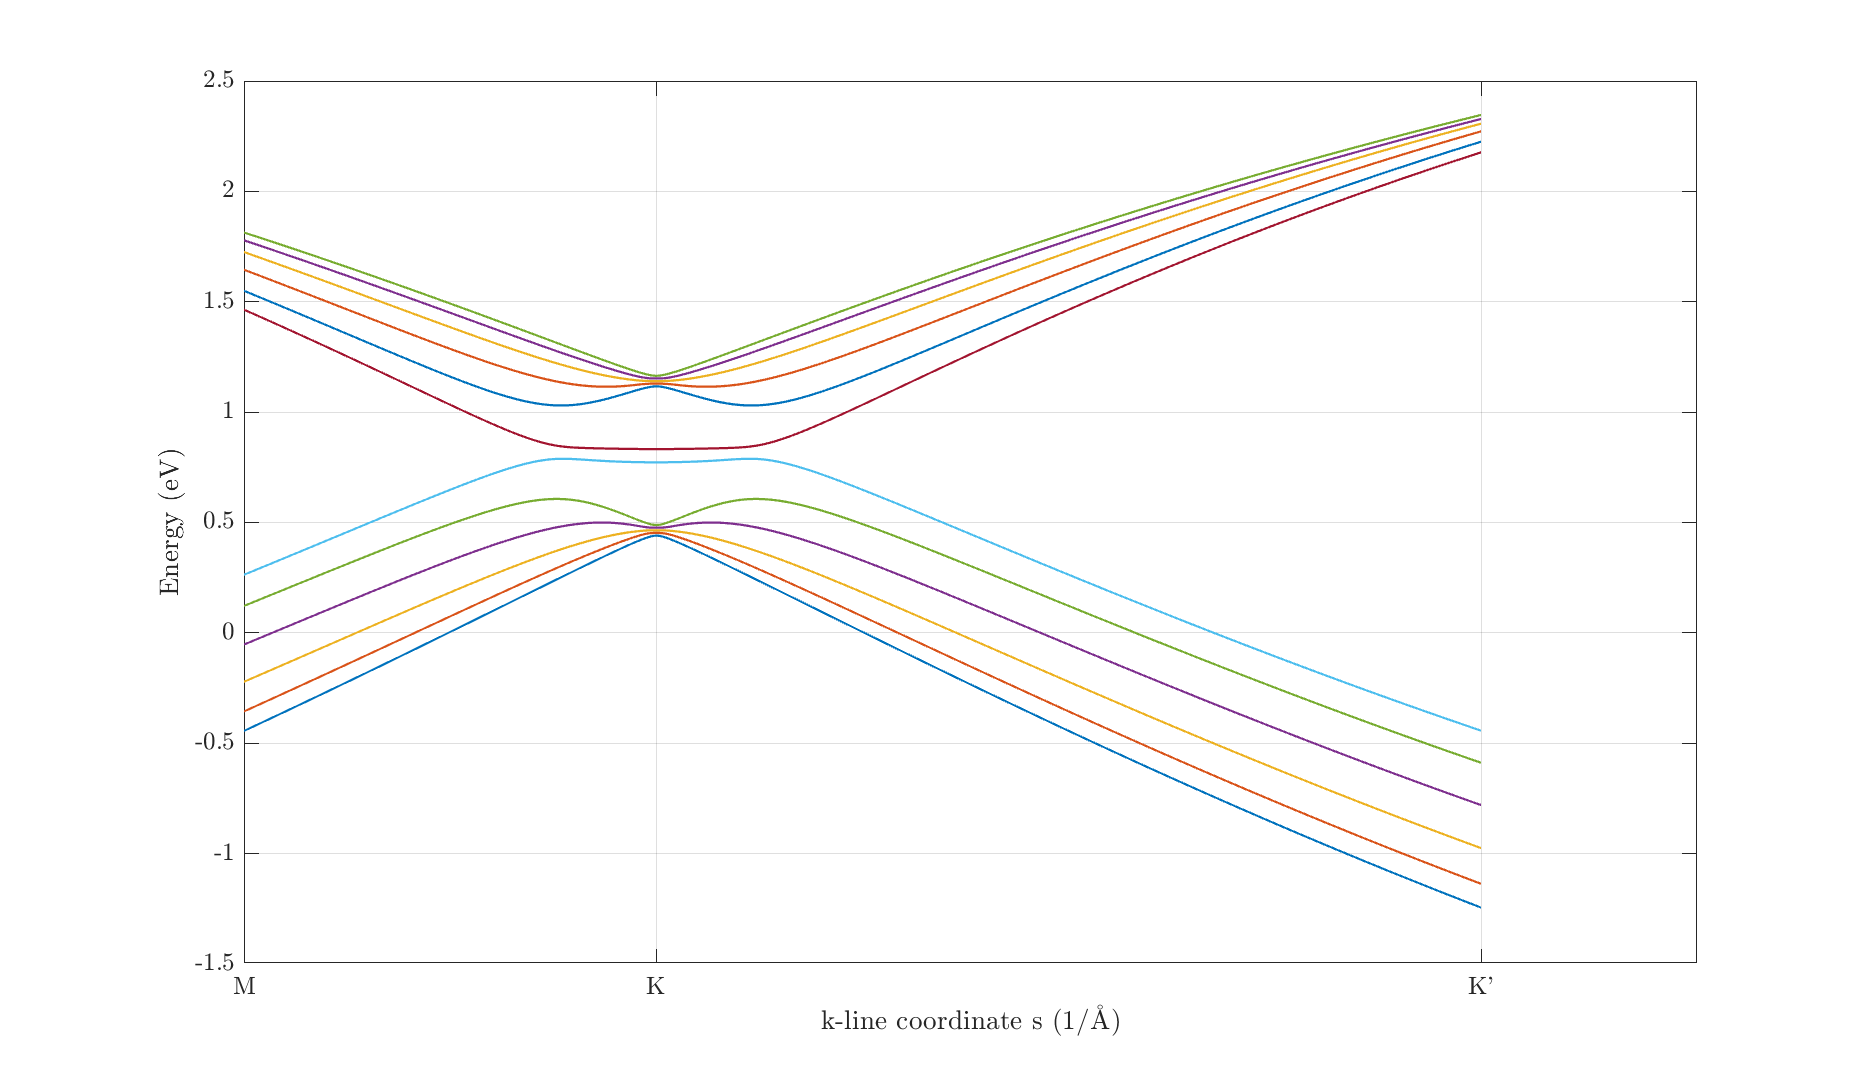
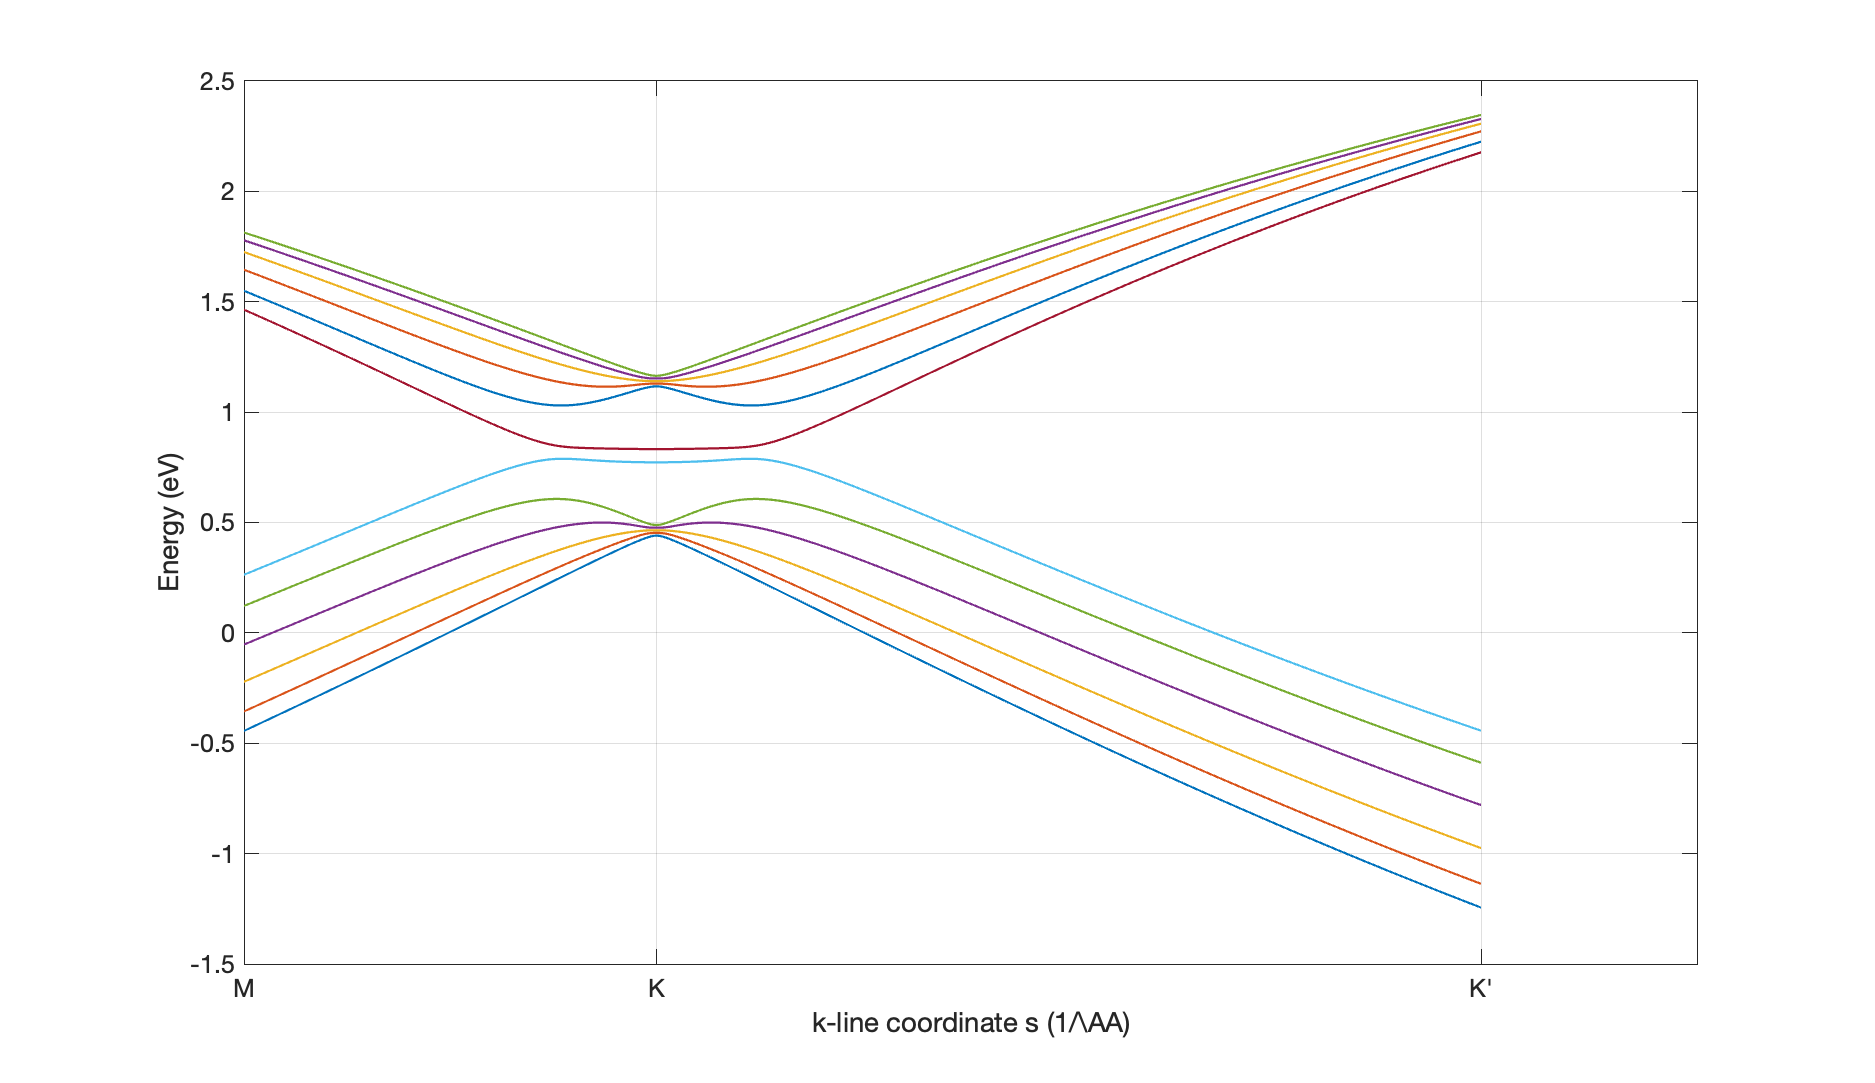
matlab figure coding updated

diff --git a/Matlab/plot_chi_dos/plot_dos_and_chi.m b/Matlab/plot_chi_dos/plot_dos_and_chi.m
@@ -3,13 +3,26 @@ function plot_dos_and_chi()
 % Key rule: x for chi MUST come from each file HEADER (not folder name).
 % DOS: prefers x from DOS numeric columns; if missing, tries header scalar.
 
+default_root = "/Users/haoranyan/rg_master/data/";
+
 x_mode = pick_xmode_();  % "doping" or "mu"
 fprintf("[x_mode] %s\n", x_mode);
+
+% -----------------------------
+% default iq/jq
+% -----------------------------
+iq0 = -267;
+jq0 = -267;
 
 % =========================
 % 1) DOS file (single)
 % =========================
-[fname, fpath] = uigetfile({'*.txt','DOS data (*.txt)'}, 'Select DOS file');
+start_dos = default_root;
+if ~isfolder(start_dos)
+    start_dos = string(pwd);
+end
+
+[fname, fpath] = uigetfile({'*.txt','DOS data (*.txt)'}, 'Select DOS file', start_dos);
 if isequal(fname,0), return; end
 dos_path = fullfile(fpath, fname);
 [~, dos_base, ~] = fileparts(dos_path);
@@ -33,14 +46,19 @@ DOS   = DOS(m);
 % =========================
 % 2) chi folder (many files)
 % =========================
-chi_root = uigetdir(string(fpath), "Select chi root folder containing chi*.txt (recursive)");
+start_chi = default_root;
+if ~isfolder(start_chi)
+    start_chi = string(fpath);
+end
+
+chi_root = uigetdir(start_chi, "Select chi root folder containing chi*.txt (recursive)");
 if isequal(chi_root,0), return; end
 chi_root = string(chi_root);
 
-answ = inputdlg({'iq','jq'}, 'Pick (iq,jq)', [1 40], {'0','0'});
-if isempty(answ), return; end
-iq_pick = round(str2double(answ{1}));
-jq_pick = round(str2double(answ{2}));
+iq_pick = iq0;
+jq_pick = jq0;
+
+fprintf("[iq,jq] = (%d, %d)\n", iq_pick, jq_pick);
 
 [x_chi, chi_re] = load_chi_vs_headerx_(chi_root, iq_pick, jq_pick, x_mode);
 if isempty(x_chi)

diff --git a/Matlab/plot_hyst_energyscape/make_realchi_coeff.m b/Matlab/plot_hyst_energyscape/make_realchi_coeff.m
@@ -14,6 +14,7 @@ function coef = make_realchi_coeff(par)
     coef.b2 = @(T) coef.beta(T);
     coef.a2 = @(T,dop) 5.0 / 6.0 * (coef.beta(T).^2) ...
         - a2*(T-Tc)^2 + a2*(Tm-Tc)^2*(dc-dop)/(dc-dm);
+    
 
     coef.eval = @(T,dop,chi_used) eval_all_(par, coef, T, dop, chi_used);
 end
@@ -24,6 +25,6 @@ function C = eval_all_(par, coef, T, dop, chi_used)
     C.b1 = coef.b1(T,dop);
     C.a2 = coef.a2(T,dop);
     C.b2 = coef.b2(T);
-    C.b2 = -5;
+    % C.b2 = -5;
     C.c2 = 1;
 end

diff --git a/Matlab/plot_hyst_energyscape/phase_diagram_ElectronicPhaseTransition.m b/Matlab/plot_hyst_energyscape/phase_diagram_ElectronicPhaseTransition.m
@@ -30,6 +30,7 @@ function out = phase_diagram_ElectronicPhaseTransition()
 
     % ---------------- choose folder -----------------
     default_root = "D:\OneDrive - Emory\Rhombohedral_SC\rhombohedral_project\data\chi_sk_mu_200\D0.084";
+    default_root = "/Users/haoranyan/rg_master/data/";
     if ~isfolder(default_root)
         warning("Default folder not found: %s\nFallback to pwd.", default_root);
         default_root = string(pwd);
